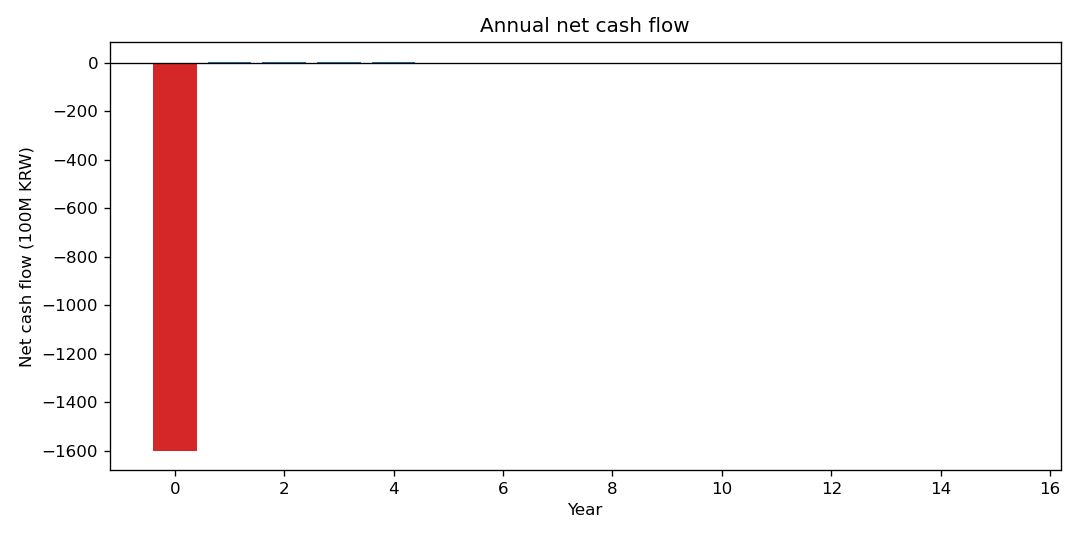
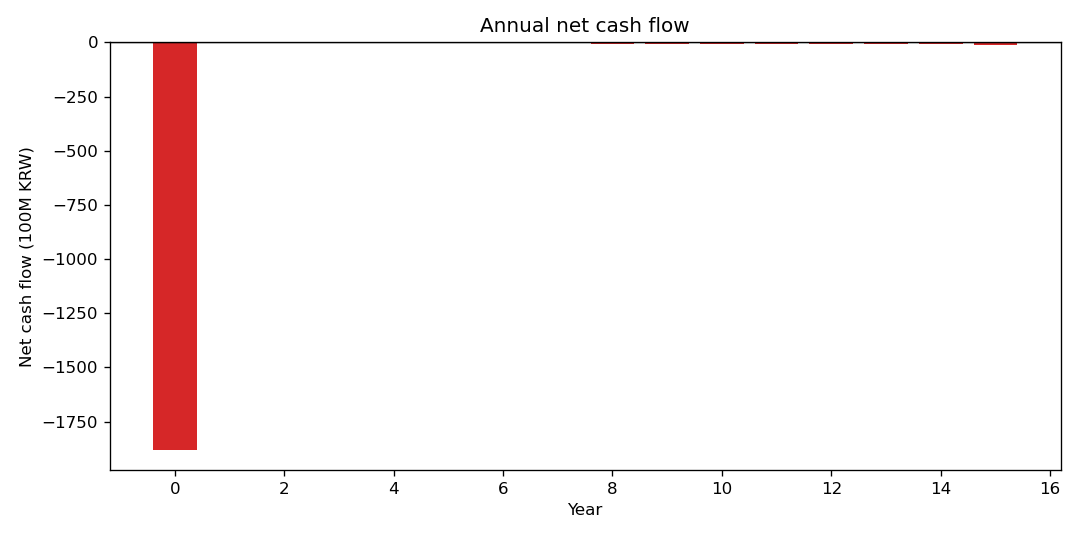
Source capex (NREL ATB/Lazard ~$350/kWh); add 1-page executive summary
- assumptions: capex now a sourced midpoint (470,000 KRW/kWh) with citation
- README/NARRATIVE numbers synced to the re-run (NPV ~ -1,923억, break-even 7x)
- EXECUTIVE_SUMMARY.md: motivation (Yeongnam), data, method, findings, limits,
  future work (folds in the energy-memo context; doubles as essay/resume seed)

diff --git a/src/assumptions.py b/src/assumptions.py
@@ -22,9 +22,11 @@ def get_assumptions() -> dict:
         "annual_degradation": 0.02,       # usable-capacity fade per year
 
         # --- Financial spec ---
-        # capex ~ $300/kWh, mid-range for a 2024 4-hour utility Li-ion BESS
-        # (BNEF Battery Cost Survey); replace with a vendor quote when available.
-        "capex_per_kwh_krw": 400_000,     # turnkey installed cost per kWh
+        # Battery capex: a 4-hour utility-scale Li-ion system runs ~$300-400/kWh
+        # installed in 2024 (NREL ATB 2024; Lazard LCOS v9). Midpoint ~$350/kWh
+        # at ~1,350 KRW/USD ~= 470,000 KRW/kWh. The break-even table shows the
+        # negative-NPV conclusion holds across this whole range.
+        "capex_per_kwh_krw": 470_000,     # installed cost per kWh (sourced midpoint)
         "om_pct_of_capex_per_year": 0.02, # fixed O&M as a share of capex
         "discount_rate": 0.07,            # WACC / hurdle rate
         "project_life_years": 15,

diff --git a/EXECUTIVE_SUMMARY.md b/EXECUTIVE_SUMMARY.md
@@ -1,0 +1,52 @@
+# Executive Summary — Does Battery Storage Pay Under Korea's Solar Transition?
+
+*A business extension of the working paper "Does Solar Generation Lower the Korean SMP?"*
+
+## Motivation — why Yeongnam
+
+Yeongnam (including Busan) is Korea's industrial heartland, where firms are
+directly exposed to wholesale power costs and, increasingly, to RE100 / PPA
+pressure. My working paper finds solar's causal effect on the wholesale price
+(SMP) is **strongest in Yeongnam: −1.35%, versus −0.58% nationally.** If solar is
+reshaping regional prices, the natural decision question is whether storage can
+monetize that shift — a live issue for developers and large consumers in the
+region. This project turns the academic estimate into that investment question,
+making "Busan" a concrete analytical object rather than an aspiration.
+
+## Question
+Is a 100 MW / 4 h battery in Yeongnam worth building on **energy arbitrage alone?**
+
+## Data
+- 2024 hourly panel, 16 mainland regions, **N = 140,138** (the working-paper dataset)
+- National hour-of-day SMP and solar generation profile; hourly IV elasticities (HTE)
+- Battery capex: NREL ATB 2024 / Lazard LCOS, ~$350/kWh
+
+## Method
+1. Translate elasticity → price scenario: `scenario = baseline × (1+g)^elasticity`
+2. Dispatch: charge the cheapest 4 h, discharge the dearest 4 h (efficiency-adjusted)
+3. Annual cash flows (capex, O&M, degradation) → NPV / IRR
+4. Closed-form break-even + 4-scenario elasticity robustness + sensitivities
+
+## Key findings
+1. **No Korean "duck curve" yet** — the cheapest hours are pre-dawn (03–05h), not
+   midday, so the battery charges at 3am and discharges into the daytime peak.
+2. **More solar slightly *raises* the spread** (my paper's intraday-absorption
+   pattern) — the opposite of the textbook merit-order story.
+3. **Arbitrage-only NPV ≈ −1,923억 KRW; IRR undefined.** Robust within ~2% across
+   every elasticity scenario → the econometric debate is immaterial to the
+   investment; **capex dominates.**
+4. Break-even needs capex ~7x lower or ~211,000 KRW/kW-yr of stacked
+   capacity/ancillary revenue.
+
+## Figures
+`outputs/price_curve.png` (SMP, solar, dispatch) · `outputs/cashflows.png` (annual cash flow)
+
+## Limitations
+Heuristic perfect-foresight dispatch (not optimized); single national price;
+capex is literature-based; the positive daytime elasticity is the paper's own
+contested result, so the *mechanism* is treated as tentative (the *robustness* is not).
+
+## Future work
+- **LP optimization** of dispatch with state-of-charge and power constraints (formalizes the heuristic).
+- Revenue stacking (capacity / ancillary) and PPA structures.
+- Yeongnam-specific hourly elasticities.

diff --git a/README.md b/README.md
@@ -33,8 +33,8 @@ effect is second-order.
 | Dispatch | charge 03–06h (~98), discharge daytime peak (~141) |
 | Arbitrage spread | ~42 KRW/kWh |
 | Daily net revenue | ~0.11억 KRW |
-| Capex | ~1,600억 KRW |
-| **NPV @ 7%** | **≈ −1,592억 KRW** |
+| Capex | ~1,880억 KRW (~$350/kWh) |
+| **NPV @ 7%** | **≈ −1,923억 KRW** |
 | IRR | undefined (cash flows never recover capex) |
 
 **Energy arbitrage alone does not justify the capex** — a robust, defensible
@@ -45,9 +45,9 @@ would close it.
 
 | Lever | Required | vs. now |
 |---|---|---|
-| Capex | ~63,000 KRW/kWh | ~6x below market (~400,000) |
-| Daily arbitrage | ~6.3x larger | spread far beyond the data |
-| Stacked revenue | ~175,000 KRW/kW-yr | capacity / ancillary on top |
+| Capex | ~63,000 KRW/kWh | ~7x below market (~470,000) |
+| Daily arbitrage | ~7.4x larger | spread far beyond the data |
+| Stacked revenue | ~211,000 KRW/kW-yr | capacity / ancillary on top |
 
 ## Robustness: the econometric debate is immaterial to the investment
 
@@ -56,14 +56,14 @@ positive, against intuition). The model quantifies how much that matters:
 
 | Elasticity scenario | NPV |
 |---|---|
-| as-estimated (national HTE) | −1,592억 |
-| solar-hours only (night = 0) | −1,595억 |
-| Yeongnam intensity (×2.3)    | −1,574억 |
-| flat IV average (−0.0058)    | −1,605억 |
+| as-estimated (national HTE) | −1,923억 |
+| solar-hours only (night = 0) | −1,926억 |
+| Yeongnam intensity (×2.3)    | −1,905억 |
+| flat IV average (−0.0058)    | −1,936억 |
 
 All within ~2%. **The contested sign matters for the paper, not for the business
-call** — capex dominates. Even halving capex to 150,000 KRW/kWh leaves NPV at
-−410억.
+call** — capex dominates. Even at 150,000 KRW/kWh (~$110/kWh, below market) NPV
+is still −410억.
 
 ## How it works
 
@@ -112,8 +112,9 @@ python3 scripts/build_inputs_from_panel.py \
 | `data/elasticities.csv` | Hourly log(SMP)~log(Solar) IV coefficients (Phase 2 HTE) |
 
 Only these small aggregates live here; the raw panel stays in the research repo.
-The one remaining placeholder is battery capex (~$300/kWh, BNEF range) in
-`assumptions.py` — and the break-even table shows the conclusion holds across it.
+The one literature-based input is battery capex (~$350/kWh, NREL ATB 2024 /
+Lazard LCOS midpoint) in `assumptions.py` — and the break-even table shows the
+conclusion holds across the full $300–400/kWh range.
 
 ## Context
 

diff --git a/NARRATIVE.md b/NARRATIVE.md
@@ -21,12 +21,12 @@ memorize. The goal is to sound like I built it and interrogated it, because I di
 > *raises* daytime prices, an intraday-absorption pattern, so more solar actually
 > nudges arbitrage revenue up here, opposite to the textbook story.
 >
-> But on arbitrage alone the NPV is about −1,600억 won and never recovers the
+> But on arbitrage alone the NPV is about −1,900억 won and never recovers the
 > capex. The striking part is the robustness: across every elasticity scenario —
 > the contested sign, the regional estimate, a flat average — NPV moves less than
 > 2%. So the econometric debate is real for the paper but immaterial to the
 > investment; capex is what dominates. To break even, capex would have to fall
-> ~6x or the project would need ancillary and capacity revenue stacked on top.
+> ~7x or the project would need ancillary and capacity revenue stacked on top.
 
 ## 3-minute version (structure)
 1. **Context (30s)** — the paper, the IV strategy, the elasticity result (~−0.6%
@@ -59,8 +59,8 @@ into the cash-flow and NPV calc.
 **"The NPV is negative — so it's a bad project?"**
 On *energy arbitrage alone*, yes — and that matches reality: utility batteries
 rarely pencil out on arbitrage by itself. I quantified the gap with closed-form
-break-even levers: capex would need to fall ~6x (to ~63,000 KRW/kWh), or daily
-arbitrage be ~6x larger, or ~175,000 KRW/kW-yr of stacked capacity/ancillary
+break-even levers: capex would need to fall ~7x (to ~63,000 KRW/kWh), or daily
+arbitrage be ~7x larger, or ~211,000 KRW/kW-yr of stacked capacity/ancillary
 revenue. So the project isn't "bad" — it's "arbitrage-only is insufficient, and
 here's exactly how much more is needed."
 